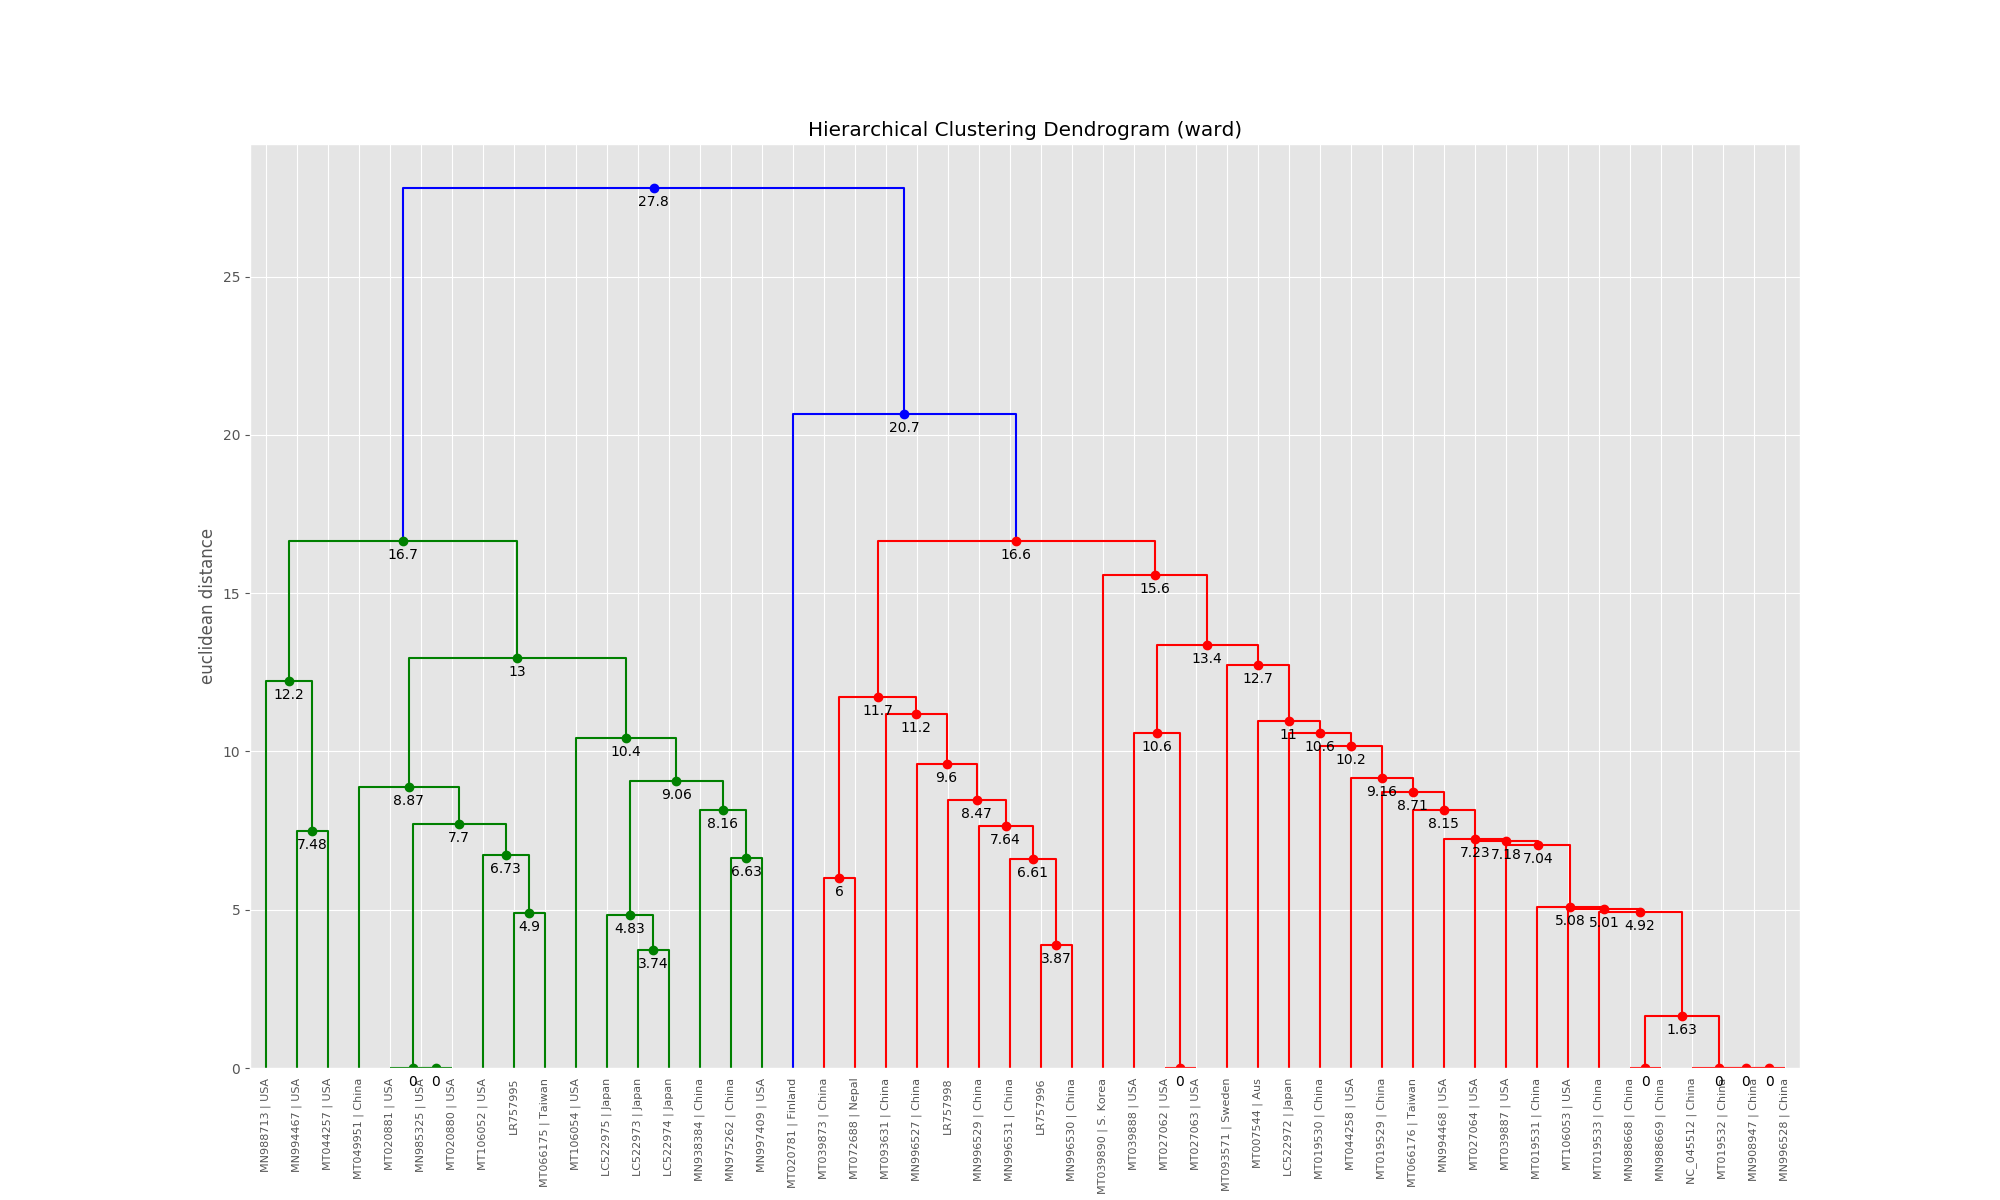
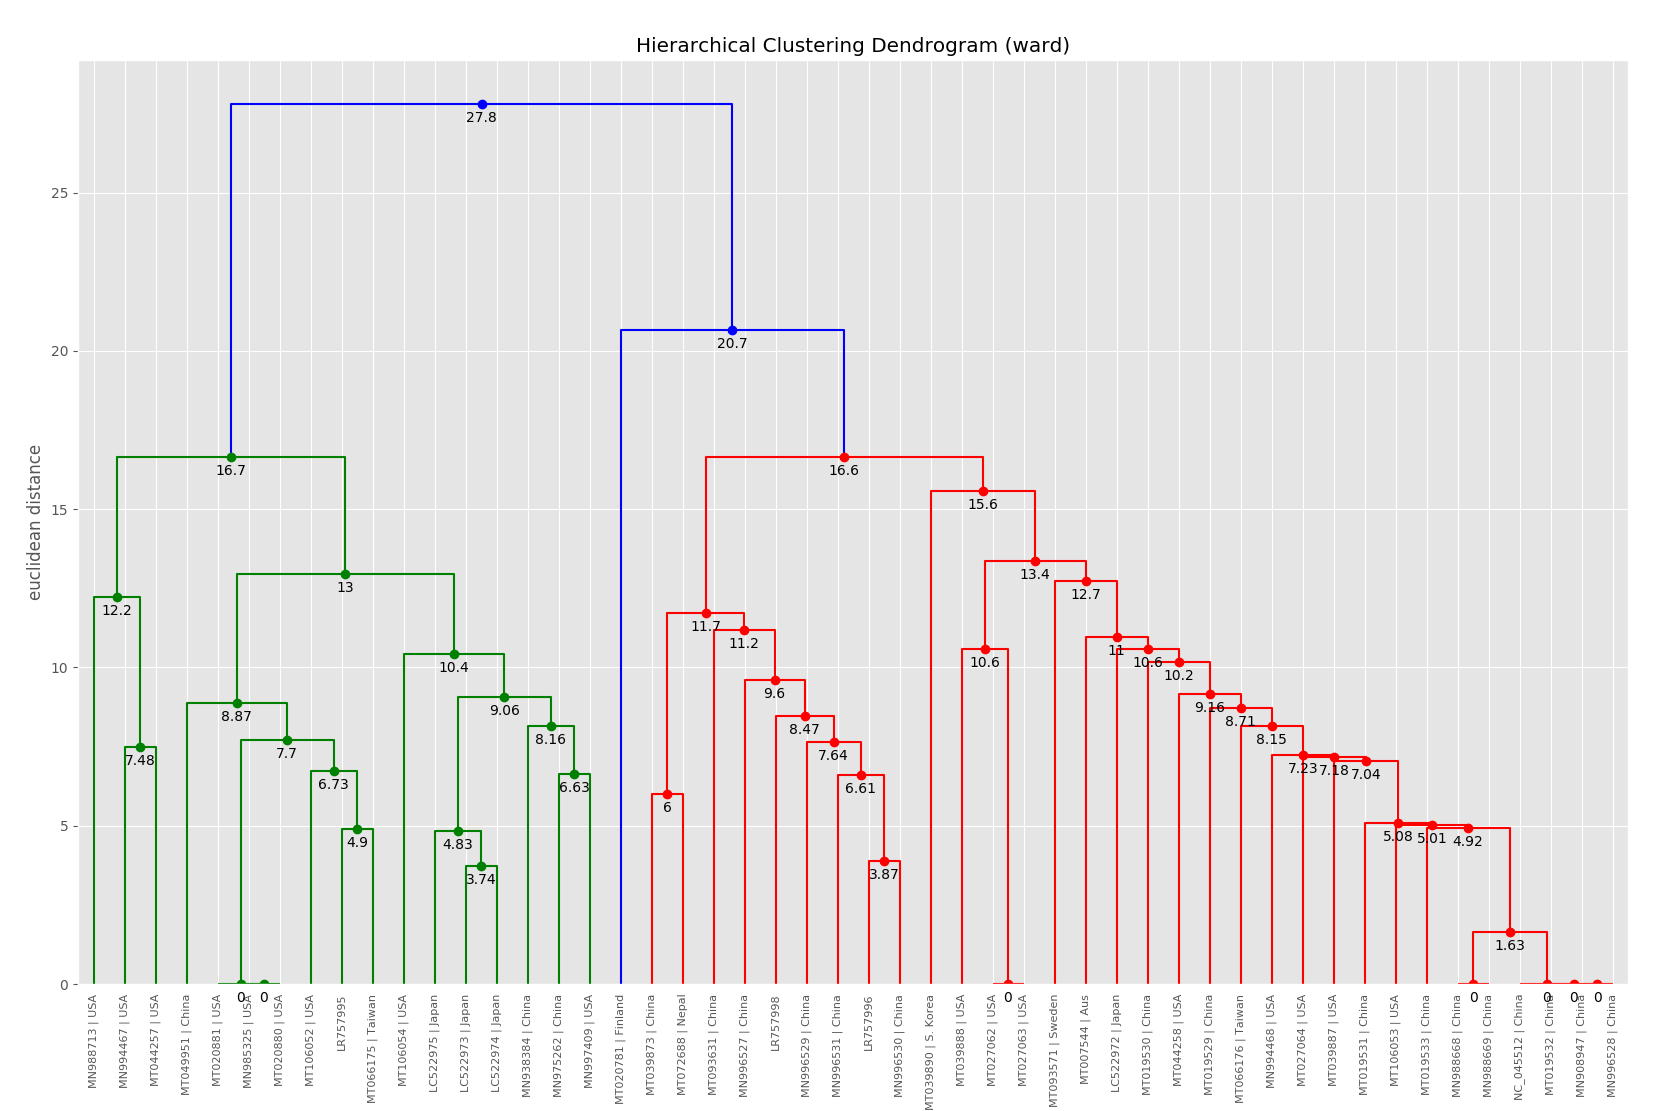
adjusting fig

diff --git a/TreeMer.py b/TreeMer.py
@@ -259,11 +259,12 @@ def plot_headmap(D_array, header_set, args, style="ggplot"):
 def plot_kmer_tree(Z, header_set, args, style="ggplot"):
     """ Plots a hierarchical clustering tree using Euclidean distance between kmer spectrums of provided sequences. """
 
+    # plt.tight_layout()
     plt.style.use(style)
 
     plt.figure("HCD", figsize=[20,12])
     plt.title(f"Hierarchical Clustering Dendrogram ({args.c})")
-    plt.xlabel("Sequence ID", )
+    plt.xlabel("Sequence ID")
     plt.ylabel(f"{args.d} distance")
 
     ddata = dendrogram(Z, labels=header_set, leaf_rotation=90)
